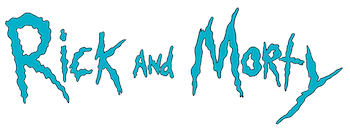
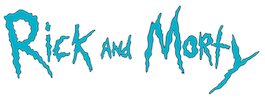
Resized the mobile header png, modified footer and header height for mobile. Started Readme

diff --git a/src/components/CharacterSelection.js b/src/components/CharacterSelection.js
@@ -31,6 +31,7 @@ export default function CharacterSelection(props) {
     const [currentPage, setcurrentPage] = useState(1);
 
     // On user character select, store ID to forward to modal gql call
+    // This also tracks the 'active' character
     const [characterId, setCharacterId] = useState('');
    
 

diff --git a/src/components/styled-components/StyledHeader.js b/src/components/styled-components/StyledHeader.js
@@ -9,7 +9,7 @@ export const StyledHeader = styled.header`
     background-repeat: no-repeat;
     background-position: center;
     @media(max-width: 500px) {
-        height: 20vh;
+        height: 12.5vh;
         background-image: url(${mobileLogo});
     }
 `;

diff --git a/src/App.css b/src/App.css
@@ -31,8 +31,8 @@
 
 a {
   text-decoration: none;
-  text-shadow: 0.5px 0.5px 0.5px var(--Tiber);
-  color: var(--LightenUpPeach);
+  text-shadow: 0.66px 0.66px 0.66px var(--cerulCompliment);
+  color: var(--Tiber);
 }
 
 a:hover {

diff --git a/src/components/styled-components/StyledList.js b/src/components/styled-components/StyledList.js
@@ -8,7 +8,7 @@ export const StyledList = styled.ul`
     max-height: 380px;
     padding: 5px;
     @media(max-width: 415px) {
-        height: 300px;
+        height: 280px;
         width: 300px;
     }
 `;

diff --git a/src/components/styled-components/ListContainer.js b/src/components/styled-components/ListContainer.js
@@ -12,6 +12,7 @@ export const ListContainer = styled.div`
     padding: 0.5em;
     @media(max-width: 415px) {
         width: 340px;
+        height: 400px;
     }
 `;
 

diff --git a/README.md b/README.md
@@ -1,70 +1,5 @@
-# Getting Started with Create React App
+# Rick and Morty Character Profile App
 
-This project was bootstrapped with [Create React App](https://github.com/facebook/create-react-app).
+![RICK_MORTY_1](./rick-morty512.png)
 
-## Available Scripts
-
-In the project directory, you can run:
-
-### `npm start`
-
-Runs the app in the development mode.\
-Open [http://localhost:3000](http://localhost:3000) to view it in the browser.
-
-The page will reload if you make edits.\
-You will also see any lint errors in the console.
-
-### `npm test`
-
-Launches the test runner in the interactive watch mode.\
-See the section about [running tests](https://facebook.github.io/create-react-app/docs/running-tests) for more information.
-
-### `npm run build`
-
-Builds the app for production to the `build` folder.\
-It correctly bundles React in production mode and optimizes the build for the best performance.
-
-The build is minified and the filenames include the hashes.\
-Your app is ready to be deployed!
-
-See the section about [deployment](https://facebook.github.io/create-react-app/docs/deployment) for more information.
-
-### `npm run eject`
-
-**Note: this is a one-way operation. Once you `eject`, you can’t go back!**
-
-If you aren’t satisfied with the build tool and configuration choices, you can `eject` at any time. This command will remove the single build dependency from your project.
-
-Instead, it will copy all the configuration files and the transitive dependencies (webpack, Babel, ESLint, etc) right into your project so you have full control over them. All of the commands except `eject` will still work, but they will point to the copied scripts so you can tweak them. At this point you’re on your own.
-
-You don’t have to ever use `eject`. The curated feature set is suitable for small and middle deployments, and you shouldn’t feel obligated to use this feature. However we understand that this tool wouldn’t be useful if you couldn’t customize it when you are ready for it.
-
-## Learn More
-
-You can learn more in the [Create React App documentation](https://facebook.github.io/create-react-app/docs/getting-started).
-
-To learn React, check out the [React documentation](https://reactjs.org/).
-
-### Code Splitting
-
-This section has moved here: [https://facebook.github.io/create-react-app/docs/code-splitting](https://facebook.github.io/create-react-app/docs/code-splitting)
-
-### Analyzing the Bundle Size
-
-This section has moved here: [https://facebook.github.io/create-react-app/docs/analyzing-the-bundle-size](https://facebook.github.io/create-react-app/docs/analyzing-the-bundle-size)
-
-### Making a Progressive Web App
-
-This section has moved here: [https://facebook.github.io/create-react-app/docs/making-a-progressive-web-app](https://facebook.github.io/create-react-app/docs/making-a-progressive-web-app)
-
-### Advanced Configuration
-
-This section has moved here: [https://facebook.github.io/create-react-app/docs/advanced-configuration](https://facebook.github.io/create-react-app/docs/advanced-configuration)
-
-### Deployment
-
-This section has moved here: [https://facebook.github.io/create-react-app/docs/deployment](https://facebook.github.io/create-react-app/docs/deployment)
-
-### `npm run build` fails to minify
-
-This section has moved here: [https://facebook.github.io/create-react-app/docs/troubleshooting#npm-run-build-fails-to-minify](https://facebook.github.io/create-react-app/docs/troubleshooting#npm-run-build-fails-to-minify)
+## Description
